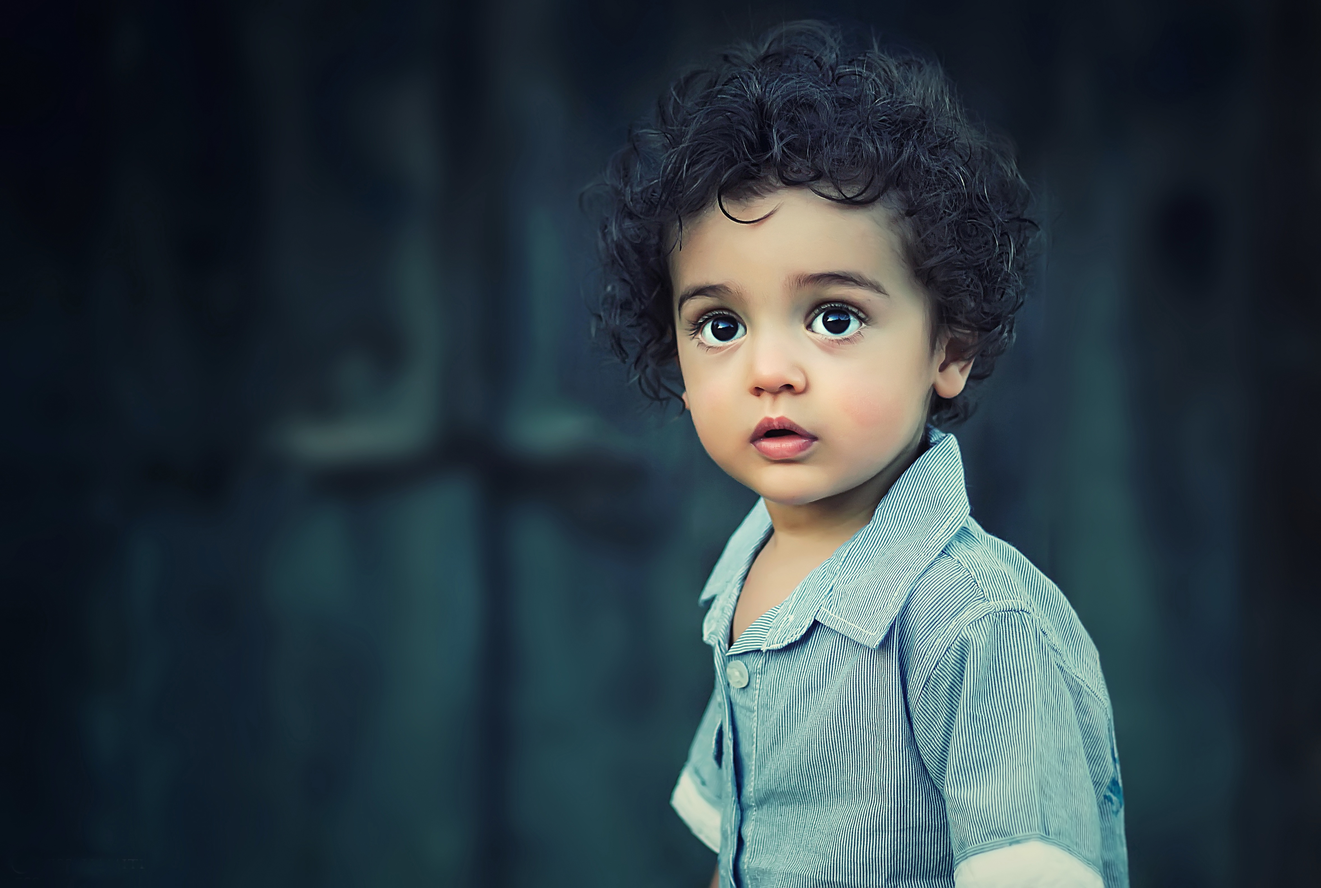
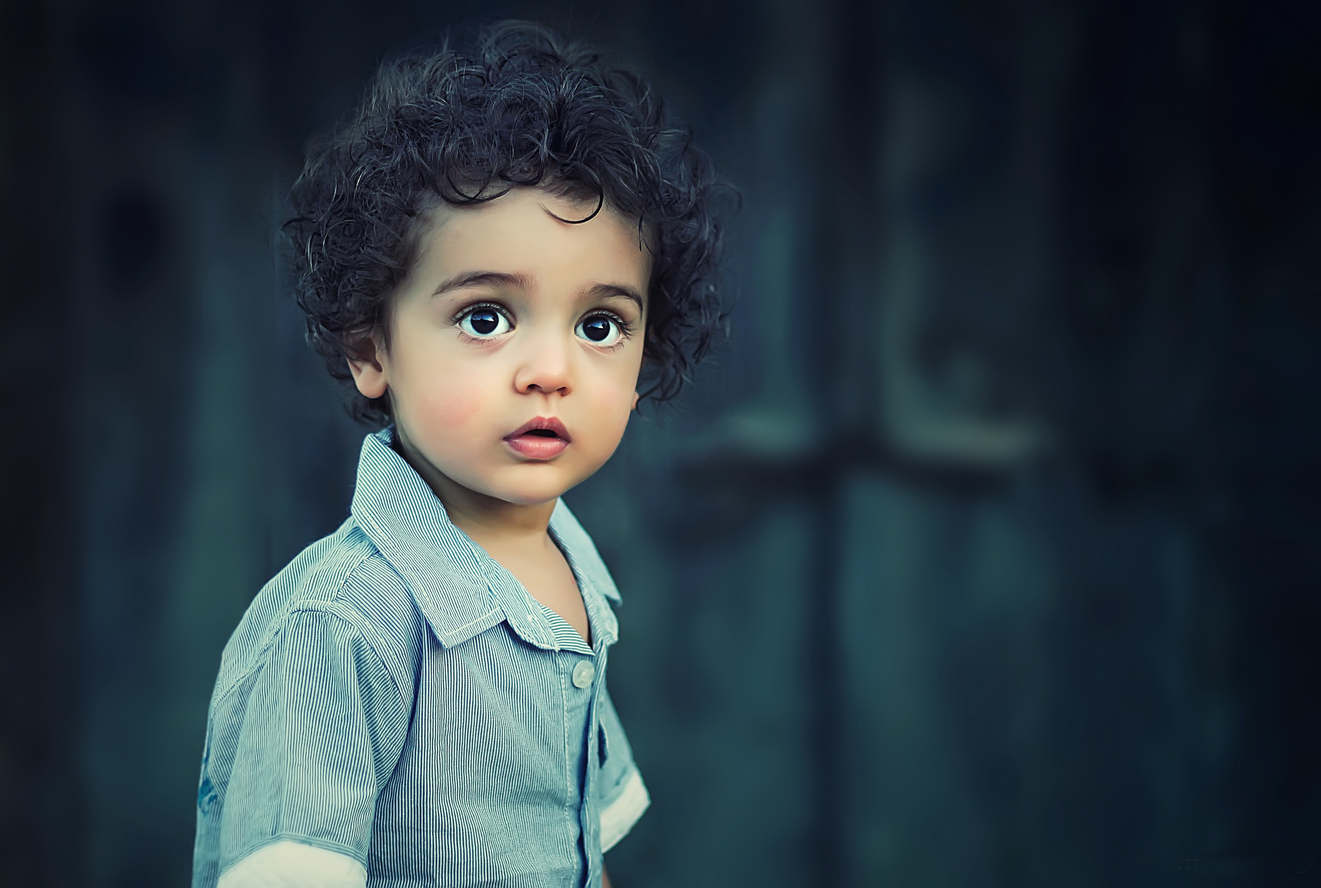
People

diff --git a/_includes/people.html b/_includes/people.html
@@ -18,7 +18,7 @@
             </div>
             <div class="col-lg-2 col-sm-4">
                 <a href="#" class="portfolio-box">
-                    <img src="img/portfolio/11.jpg" class="img-responsive" alt="">
+                    <img src="img/portfolio/12.jpg" class="img-responsive" alt="">
                     <div class="portfolio-box-caption">
                         <div class="portfolio-box-caption-content">
                             <div class="project-category text-faded">
@@ -48,7 +48,7 @@
             </div>
             <div class="col-lg-2 col-sm-4">
                 <a href="#" class="portfolio-box">
-                    <img src="img/portfolio/11.jpg" class="img-responsive" alt="">
+                    <img src="img/portfolio/12.jpg" class="img-responsive" alt="">
                     <div class="portfolio-box-caption">
                         <div class="portfolio-box-caption-content">
                             <div class="project-category text-faded">
@@ -78,7 +78,7 @@
             </div>
             <div class="col-lg-2 col-sm-4">
                 <a href="#" class="portfolio-box">
-                    <img src="img/portfolio/11.jpg" class="img-responsive" alt="">
+                    <img src="img/portfolio/13.jpg" class="img-responsive" alt="">
                     <div class="portfolio-box-caption">
                         <div class="portfolio-box-caption-content">
                             <div class="project-category text-faded">
